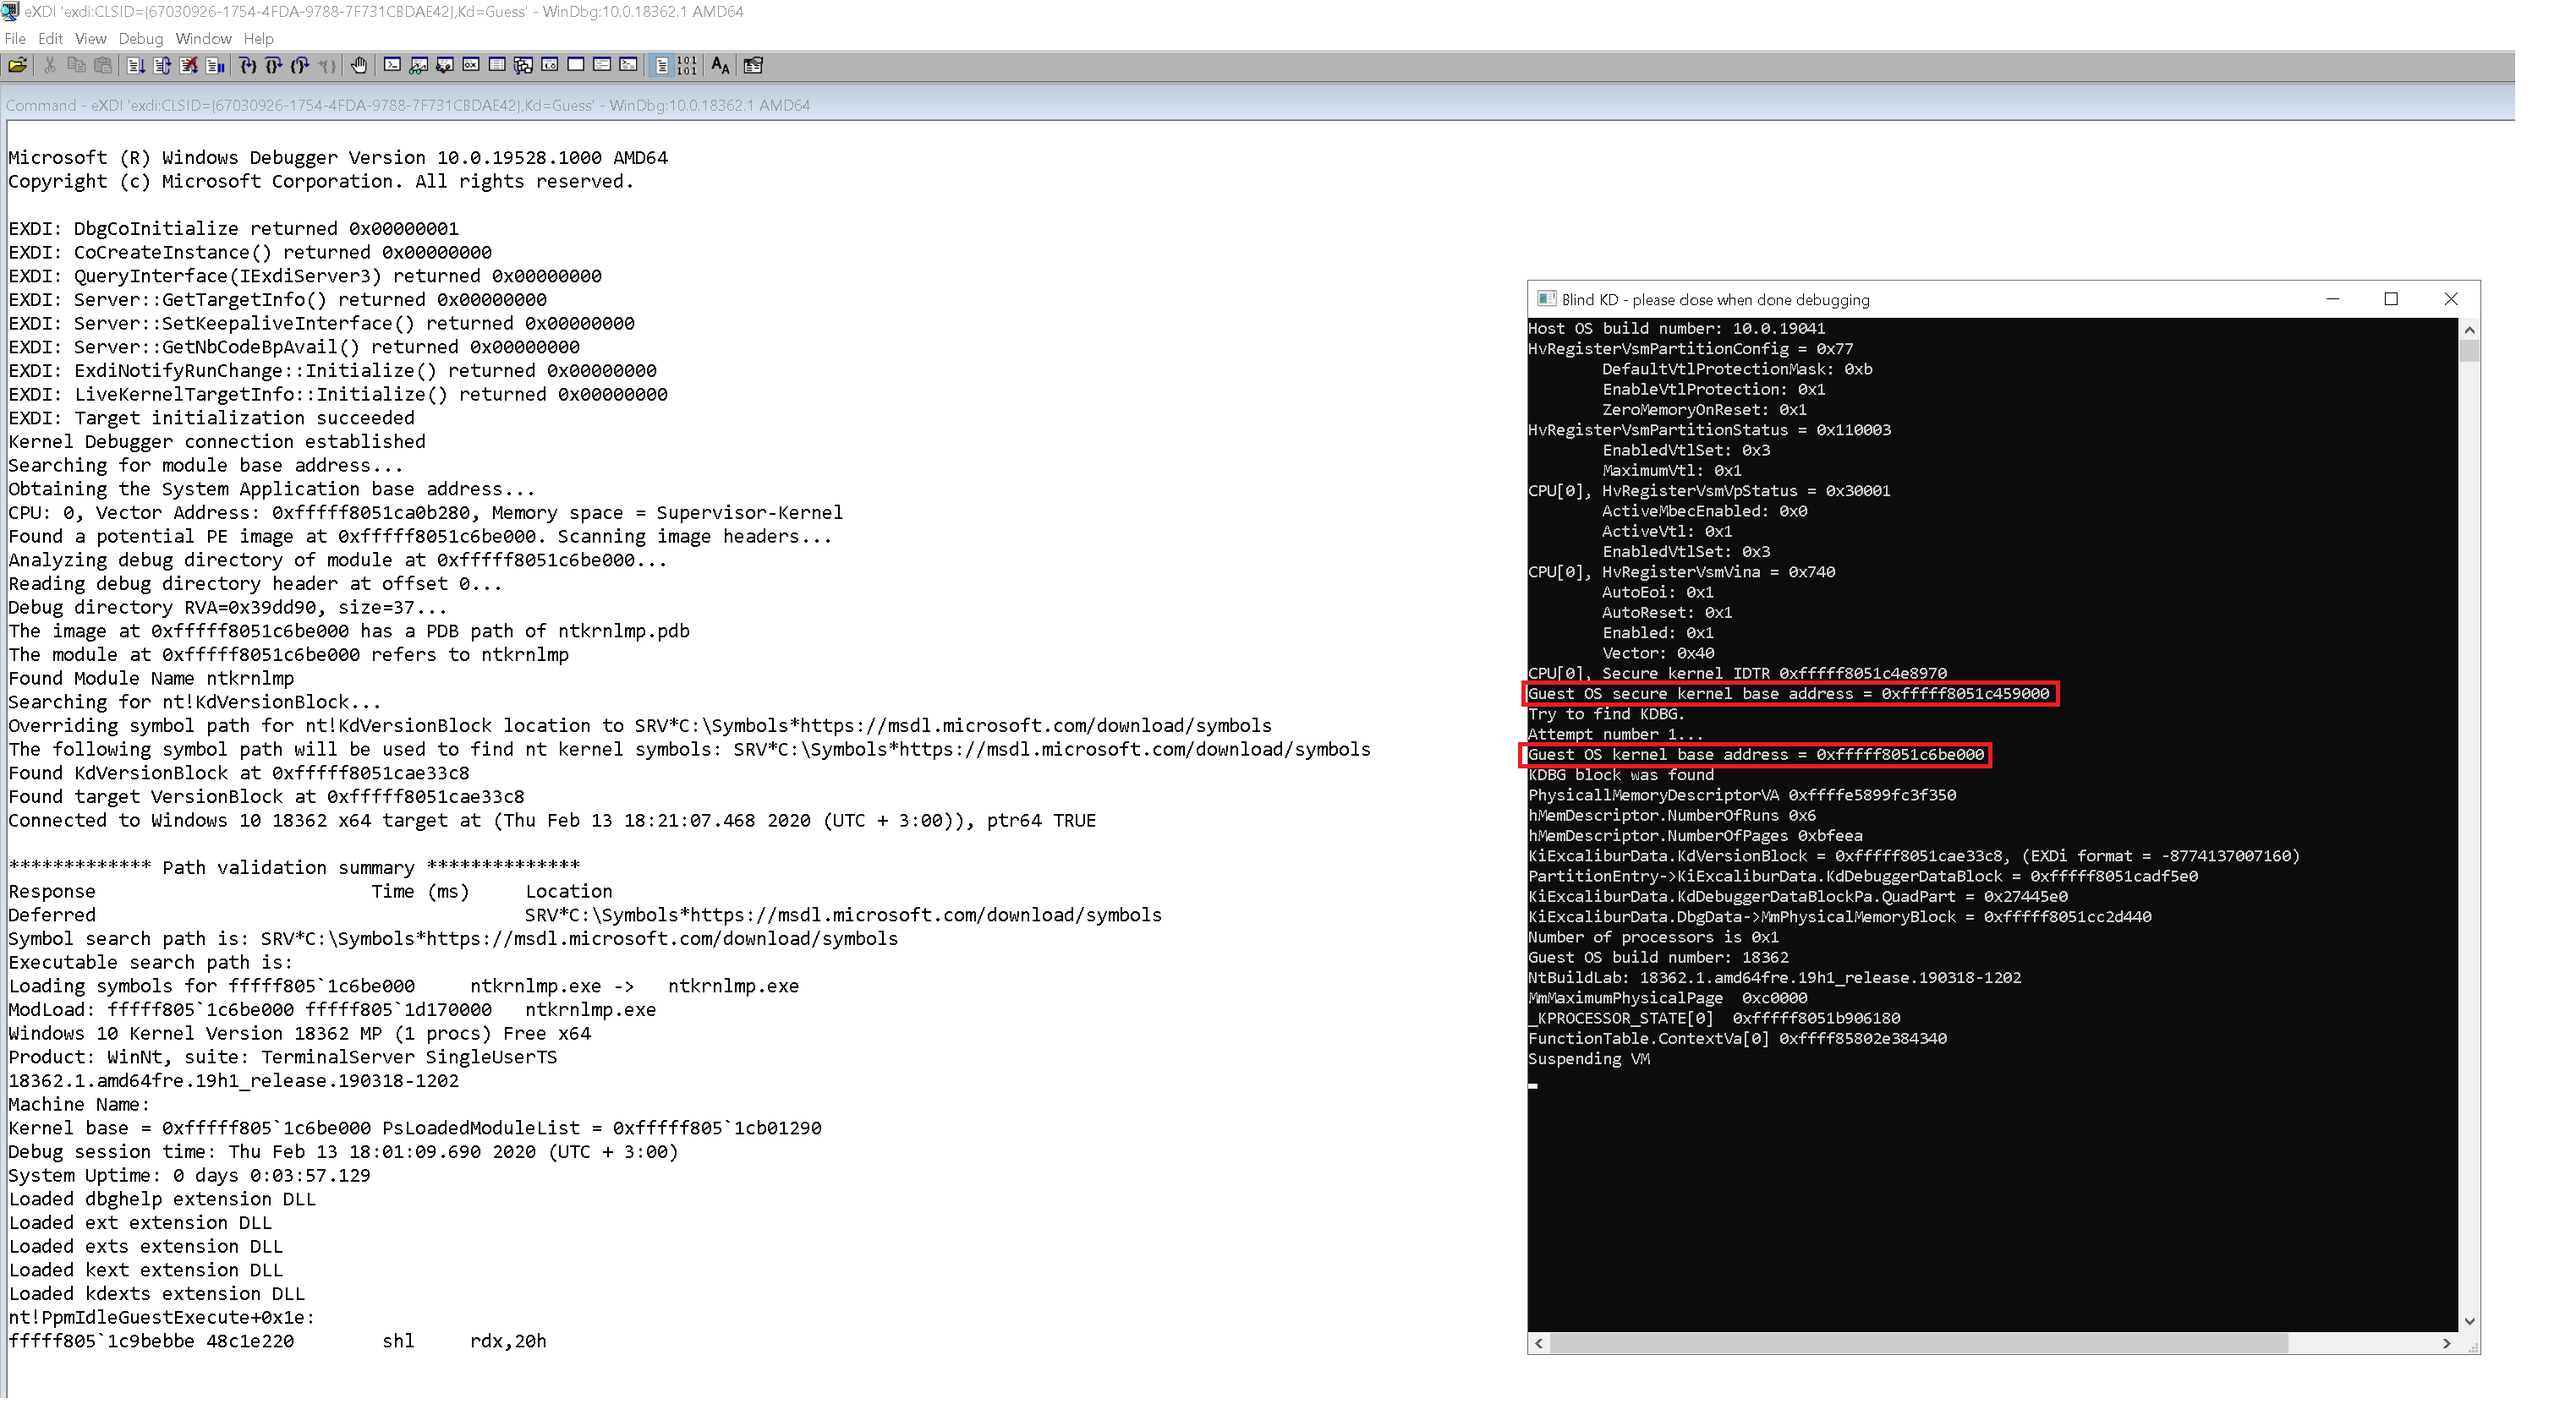
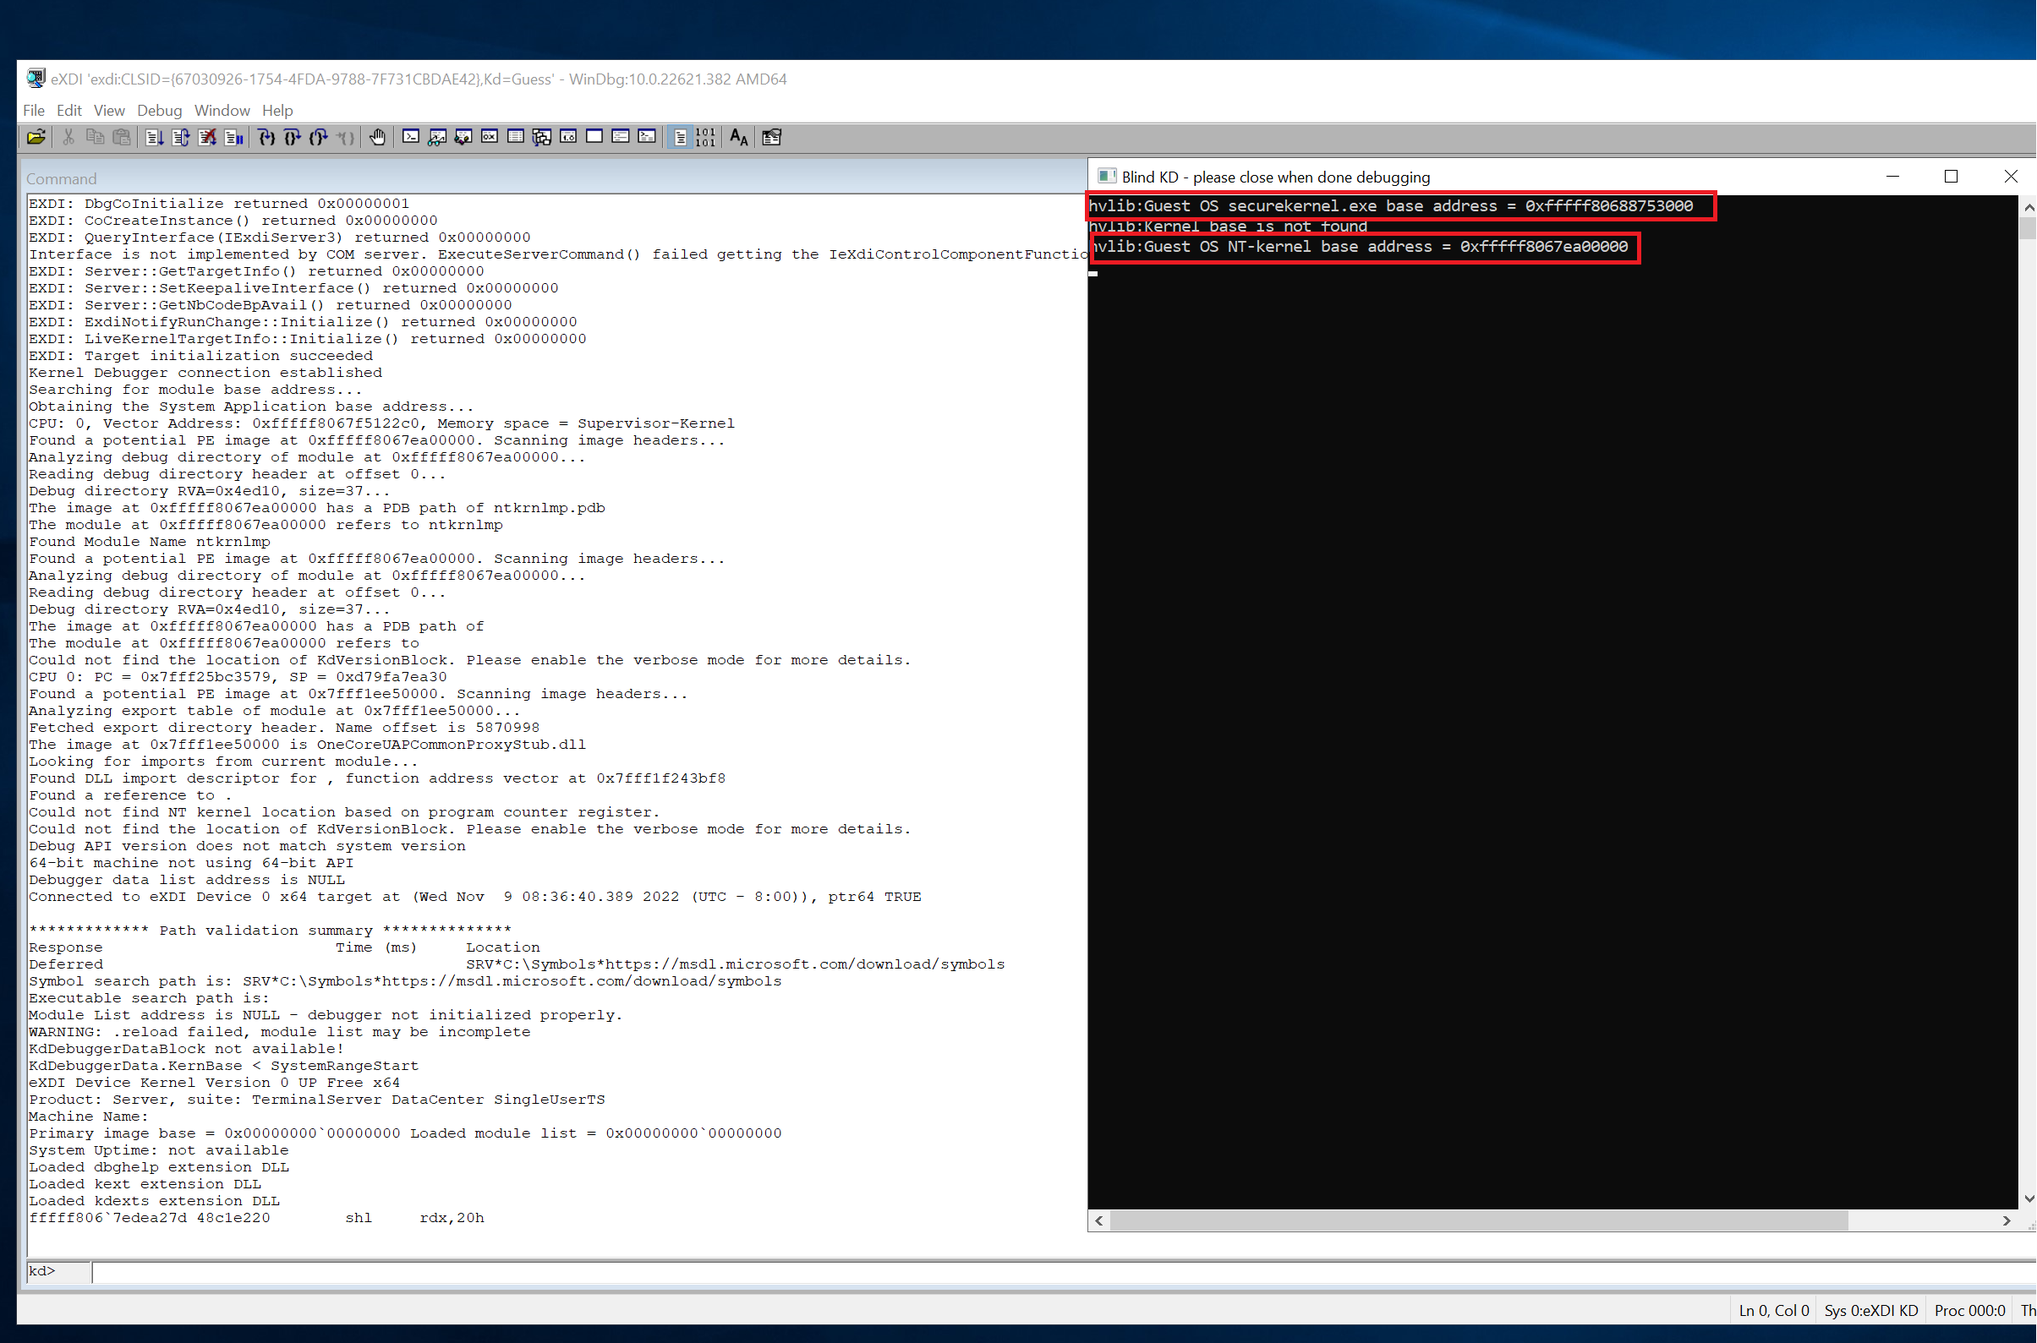
Update

diff --git a/ExdiKdSample/LiveDebugging.md b/ExdiKdSample/LiveDebugging.md
@@ -1,33 +1,33 @@
-# Live debugging capabilities (beta stage)
+# Hyper-V live debugging
 
-LiveCloudKd EXDi module can be used for debugging Hyper-V guest OS without enable kernel debugging in bootloader.
+LiveCloudKd EXDi debugger can be used for debugging Hyper-V guest OS without enable kernel debugging in bootloader.
 
-Standard Hyper-V VM can be debugged too, but more intereseting is to debug securekernel part of Windows.
-Docker containers, running in Hyper-V isolation mode, and Windows Sandbox can be debugged too, but EXDi module has some syncs problems in multi CPU environment (because all function's calls to EXDi go from blackboxing dbgeng.dll). EXDi works, but unexpected interruptions may be catched during tracing.
+Can be useful for debug Hyper-V VM with enabled HVCI and securekernel.
+
+Working with guest Windows Server 2022 and Windows 11, including preview builds (on November 2022)
+
+For debugging you need to use Windows Server 2019 (August 2020 updates - en_windows_server_2019_updated_aug_2020_x64_dvd_f4bab427.iso).
+It is good to use VMware Workstation for it.
 
 # VSM\VBS activating for securekernel debugging
 
-Read official Microsoft document first [Enable virtualization-based protection of code integrity](https://docs.microsoft.com/en-us/windows/security/threat-protection/device-guard/enable-virtualization-based-protection-of-code-integrity)
+Read official Microsoft document first [Enable virtualization-based protection or code integrity](https://docs.microsoft.com/en-us/windows/security/threat-protection/device-guard/enable-virtualization-based-protection-of-code-integrity)
 
 It was enough for me to enable VBS in group policy editor.
 
 For guest VM don't forget enable SecureBoot option. 
 Check Get-VMSecurity -VMName <VMName> output. VirtualizationBasedSecurityOptOut must be $false.
 	
-Don't enable nested virtualization support. VBS in guest Hyper-V VM works without guest hypervisor. More than - nested virtualization and VSM are incompatible together (for Windows 10, build 1909 and Windows Server 2019, at least).
-Official doc (mentioned above) said: "HVCI and nested virtualization can be enabled at the same time", but i get false VBS starting result in my test lab, when hypervisorlaunchtype option in bcdedit was auto.
-
+Don't enable nested virtualization support for guest OS. VBS in guest Hyper-V VM works without guest hypervisor.
 
 # Installation
 
 EXDi is used for integration custom debugging engines with WinDBG.
 
 LiveCloudKDExdi plugin in live debugging mode works with Hyper-V on Windows Server 2019 and Windows 10 20H1 (19041) as host OS. Guest OS can be various. 
-It must work on Windows 10, build 1909, but i didn't test it.
-Also EXDi plugin was tested on Windows 20H2 fast ring build (19569.1000.amd64fre.rs_prerelease.200214-1419) with Windows 10X emulator (but there is no symbols for guest Windows 10X ntoskrnl.exe on 08 march 2020 date)
 
-1. Extract all files to WinDBG x64 10.0.1903 install directory (installer can be found in Windows SDK 10.0.18362.0 or WDK for Windows 10, version 1903)
-2. Install Visual Studio 2019 runtime libraries - https://aka.ms/vs/15/release/vc_redist.x64.exe 
+1. Extract all files to WinDBG x64 10.0.22621 install directory (installer can be found in Windows SDK 11 22H2)
+2. Install Visual Studio 2022 runtime libraries - https://aka.ms/vs/17/release/vc_redist.x64.exe 
 3. Register ExdiKdSample.dll using "regsvr32.exe ExdiKdSample.dll" command
 4. Don't forget configure symbols path for WinDBG as usual:
 
@@ -39,13 +39,13 @@ setx /m _NT_SYMBOL_PATH SRV*C:\Symbols*https://msdl.microsoft.com/download/symbo
 
 # Start
 
-1. Start LiveCloudKd with /l option: 
+1. Start WinDBG with EXDi plugin: 
 
 ```
-livecloudkd.exe /l /m 1 /v 2 
+windbg -d -v -kx exdi:CLSID={67030926-1754-4FDA-9788-7F731CBDAE42},Kd=Guess
 ```
 
-It automatically launches WinDBG with EXDi interface in live debugging mode using hvmm.sys driver and max logging mode.
+It automatically launches WinDBG with EXDi interface in live debugging mode using hvmm.sys driver.
 
 2. You can see working WinDBG and separate logging windows:
 
@@ -74,7 +74,7 @@ to field.
 
 # Live debugging usage
 
-1 CPU for guest OS for live debugging is preferrable. MultiCPU version was developped recently and was't test enough (the most of tests was done on Windows 10X emulator)
+1 CPU for guest OS for live debugging is preferrable.
 Experimented multi-CPU debugging was added. For successfull debugging you need set Debug-Event Filters->Break instruction exception to Handle->Not Handle, and Execution->Output. 
 
 Set breakpoint using "bp" command, press "Run", wait until breakpoint was triggered. You can set 0x1000 breakpoints now. It is software-like breakpoints, and not limited. You can use single step command.
@@ -100,6 +100,11 @@ Search images load addresses in pattern:
 The image at <module_base_address> is securekernel.exe
 The image at <module_base_address> is SKCI.dll
 The image at <module_base_address> is cng.sys 
+
+Also
+
+Found DLL import descriptor for ext-ms-win-ntos-ksr-l1-1-0.dll, function address vector at 0xfffff8068882c5c8
+Found DLL import descriptor for ext-ms-win-ntos-vmsvc-l1-1-0.dll, function address vector at 0xfffff8068882c5d8
 ```
 
 ![](./images/EXDI8.png)
@@ -126,6 +131,7 @@ You can see demo video on youtube:
 
 1. Debugging Hyper-V Windows Server 2019 guest OS using LiveCloudKd EXDI plugin - https://youtu.be/_8rQwB-ESlk
 2. Microsoft Windows Server 2019 securekernel live debugging using WinDBG EXDi LiveCloudKd plugin - https://youtu.be/tRLQwsJQ-hU
+3. Debugging Windows 11 25140 guest OS using LiveCloudKd EXDI plugin - https://www.youtube.com/watch?v=0VIVc0IsfRk
 
 # Settings
 
@@ -133,12 +139,6 @@ There are some settings can be configured through Windows Registry (see file Reg
 
 1. ScanGuestOsImages - try to scan physical memory for MZ-signature (can be useful for Windows 10X emulator).
 2. VSMScan - enable VSM scanning for guest OS
-3. UseDebugApiStopProcess - core applications, which manage container like Windows Sandbox and WDAG, must be be stopped in SuspendVm operation (otherwise they switch on vmwp.exe and guest's cpus after manual stopping)
-
-	2 methods are used for that:
-	
-		- NtResumeProcess\NtSuspendProcess functions
-		- DebugActiveProcess\DebugActiveProcessStop functions (need additional thread for it)
 	
 	UseDebugApiStopProcess parameter enables DebugActiveProcess\DebugActiveProcessStop functions
 
@@ -152,7 +152,7 @@ There are some settings can be configured through Windows Registry (see file Reg
 	4 - Resume partition.
 ```
 	
-	NtSuspendProcess and NtResumeProcess are using for manage of state vmwp.exe process. It is not need for Windows Server 2019 (stopping of virtual cpus is enough), but need for Windows 10 (because of difference in CPU scheduler). If something wrong, process can be resuming using Process Explorer from SysinternalsSuite.
+	NtSuspendProcess and NtResumeProcess are using for manage of state vmwp.exe process. It is not need for Windows Server 2019 (stopping of virtual cpus is enough), but need for Windows 10 host OS (because of difference in CPU scheduler). If something wrong, process can be resuming using Process Explorer from SysinternalsSuite. Recommend to use Windows Server 2019
 	
 2. Securekernel debugging in EXDi mode is unexplored feature, there are many problems can be triggered in debugging process, so first make test (you can see example on early mentioned video):
 
